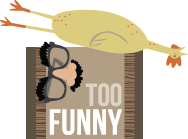
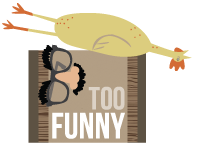
new images for slide 4, added text input for other

diff --git a/static/css/style.css b/static/css/style.css
@@ -721,6 +721,17 @@ ul#column5 {
 .otherimage {
     background-image:url(../images/slide3/other.png);
 }
+input#reason {
+    position:absolute;
+    bottom:26%;
+    left:16%;
+    z-index:101;
+    display:block;
+    line-height:1.0em;
+    padding-top:5px;
+    padding-left:5px;
+    width:60%;
+}
 /******************************* END COLUMNS ****************************************/
 
 input[type=checkbox] {

diff --git a/views/FavoriteFailures.html b/views/FavoriteFailures.html
@@ -198,8 +198,10 @@
 	    <ul id="column5">
 		<li id="oth">
 		    <div class="otherimage">
+			<input type="text" class="failure" name="failure" id="reason"/>
 			<input type="checkbox" class="failure" name="failure" value="other" id="other"/>
 			<img src="images/slide3/otherselected.png">
+			
 		    </div>
 		</li>
 	    </ul>
